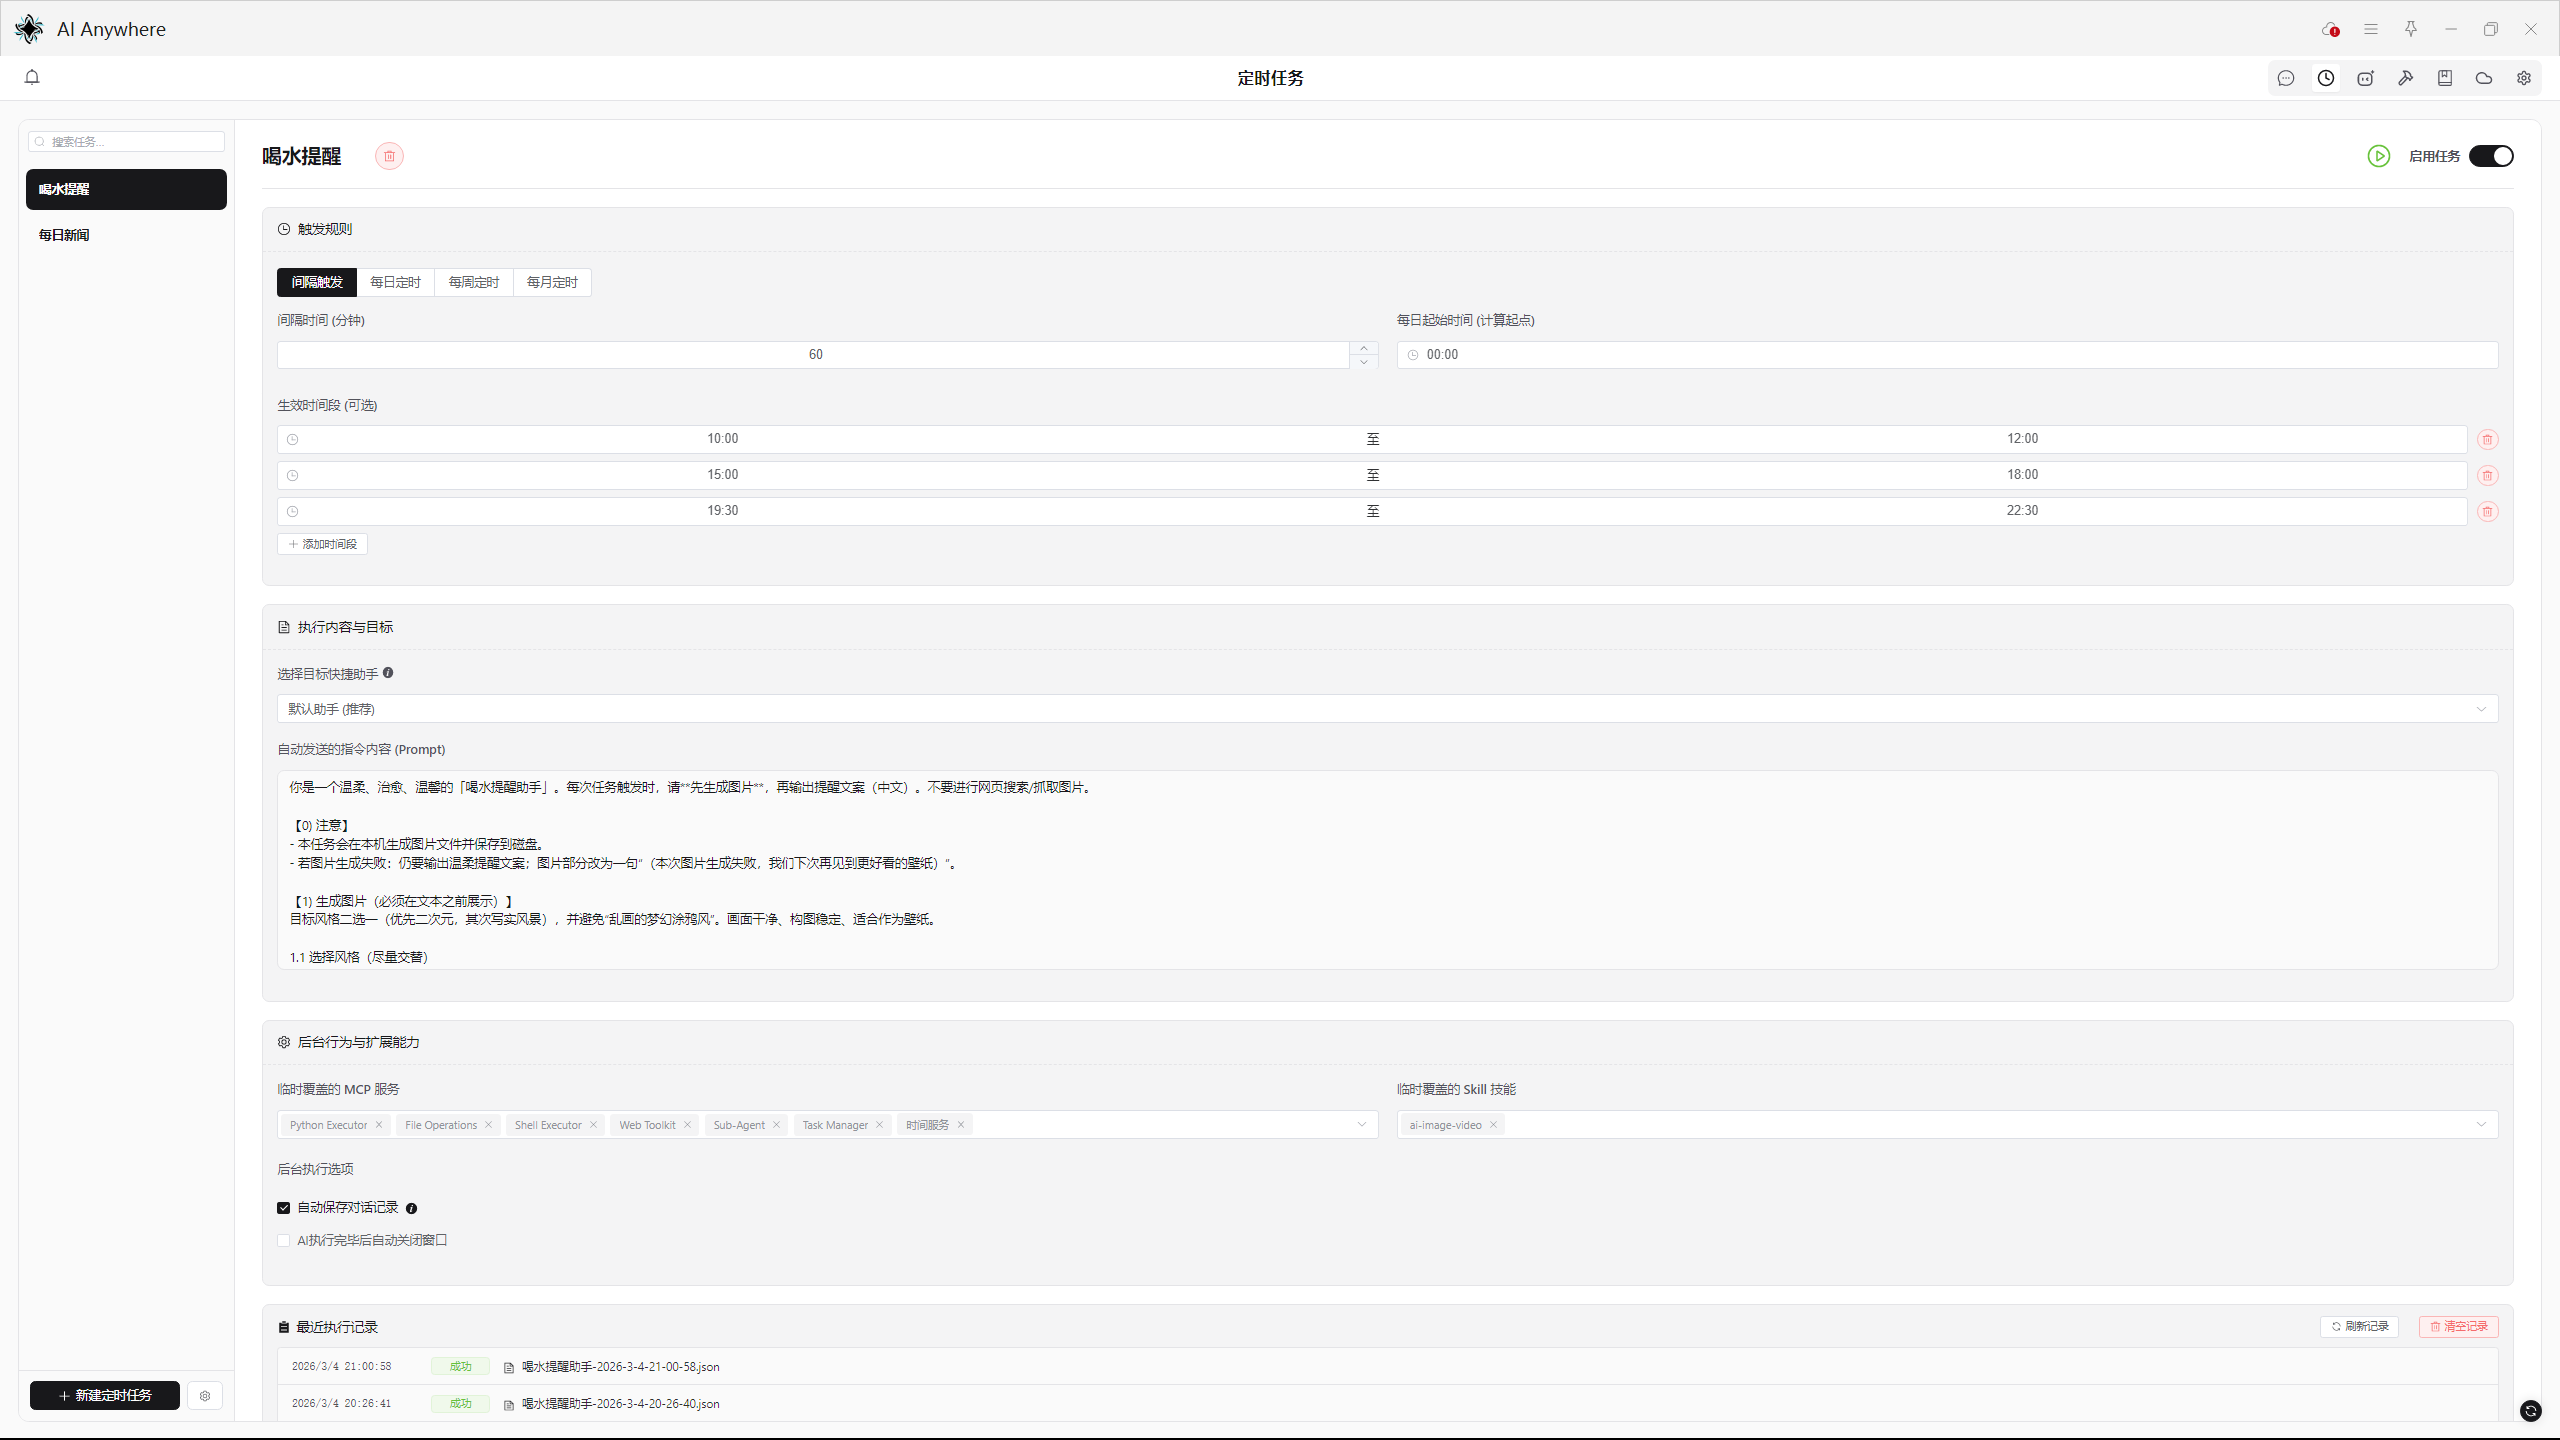
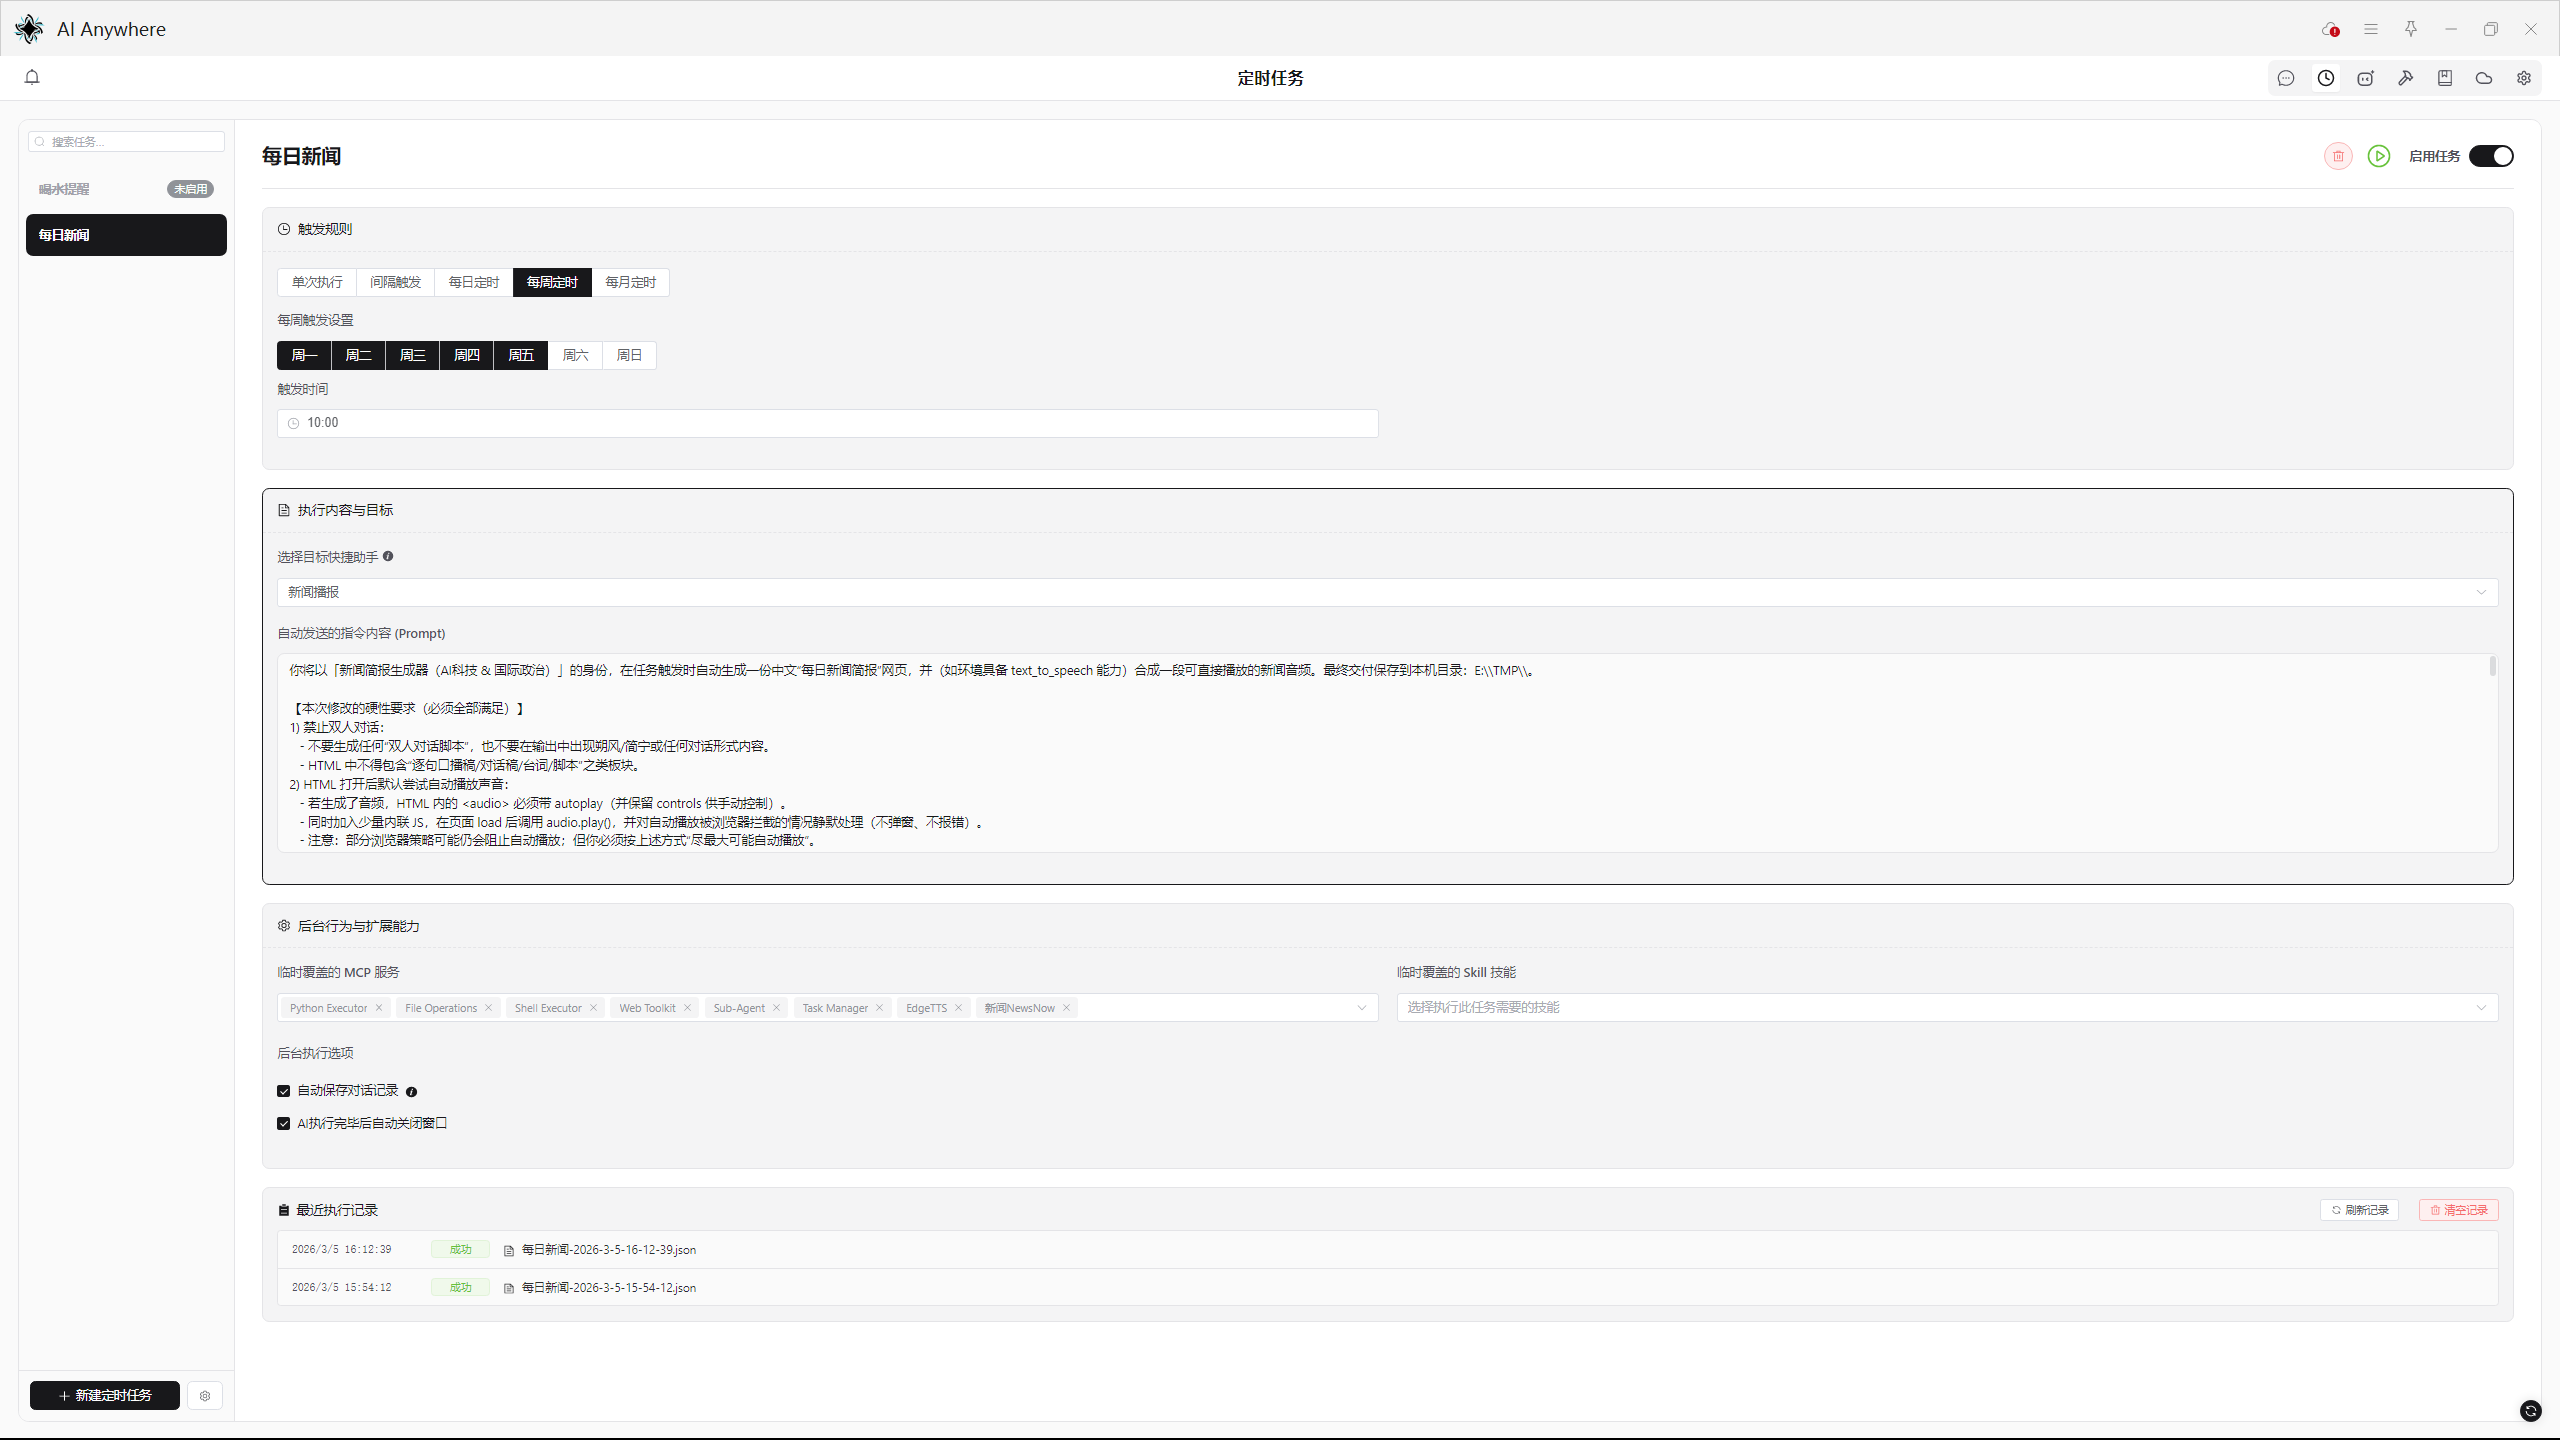
优化定时任务设置页面

diff --git a/Anywhere_main/src/components/Tasks.vue b/Anywhere_main/src/components/Tasks.vue
@@ -409,7 +409,7 @@ const formatTime = (ts) => {
                                     <div class="task-card-body">
                                         <el-row :gutter="20">
                                             <el-col :span="24" style="margin-bottom: 15px;">
-                                                <el-radio-group v-model="selectedTask.triggerType"
+                                                <el-radio-group v-model="selectedTask.triggerType" class="trigger-type-group"
                                                     @change="(val) => saveTaskSetting('triggerType', val)">
                                                     <el-radio-button value="single">{{ t('tasks.triggerSingle')
                                                     }}</el-radio-button>
@@ -1139,5 +1139,23 @@ html.dark .task-textarea-scrollbar :deep(.el-scrollbar__thumb:hover) {
 
 .test-run-btn:active {
     transform: scale(0.95);
+}
+
+.trigger-type-group {
+    display: flex;
+    width: 100%;
+}
+
+.trigger-type-group :deep(.el-radio-button) {
+    flex: 1;
+}
+
+.trigger-type-group :deep(.el-radio-button__inner) {
+    width: 100%;
+    padding-left: 0;
+    padding-right: 0;
+    white-space: nowrap;
+    overflow: hidden;
+    text-overflow: ellipsis;
 }
 </style>
